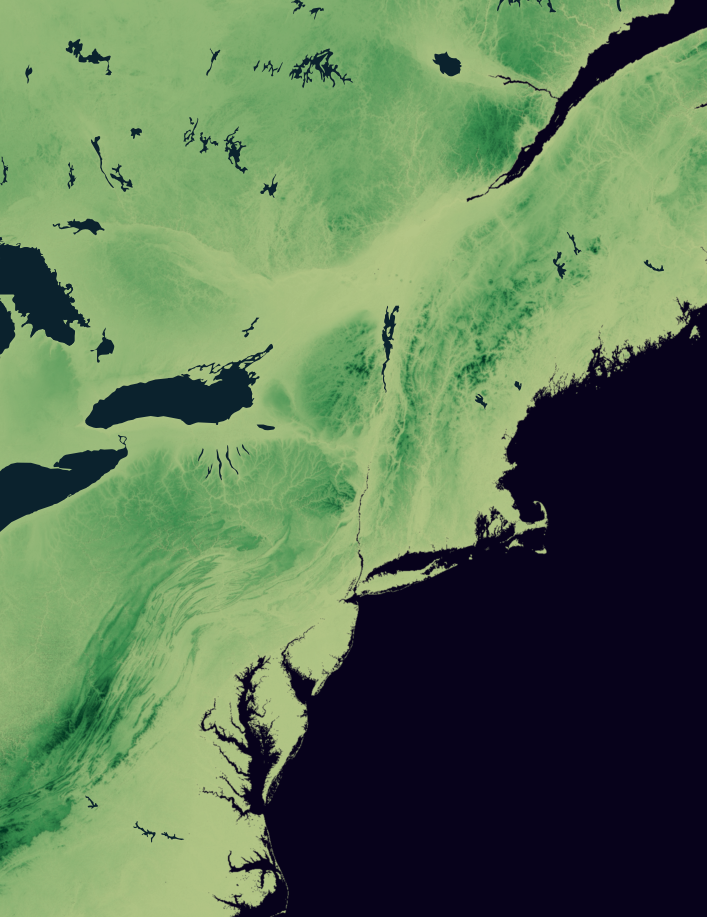
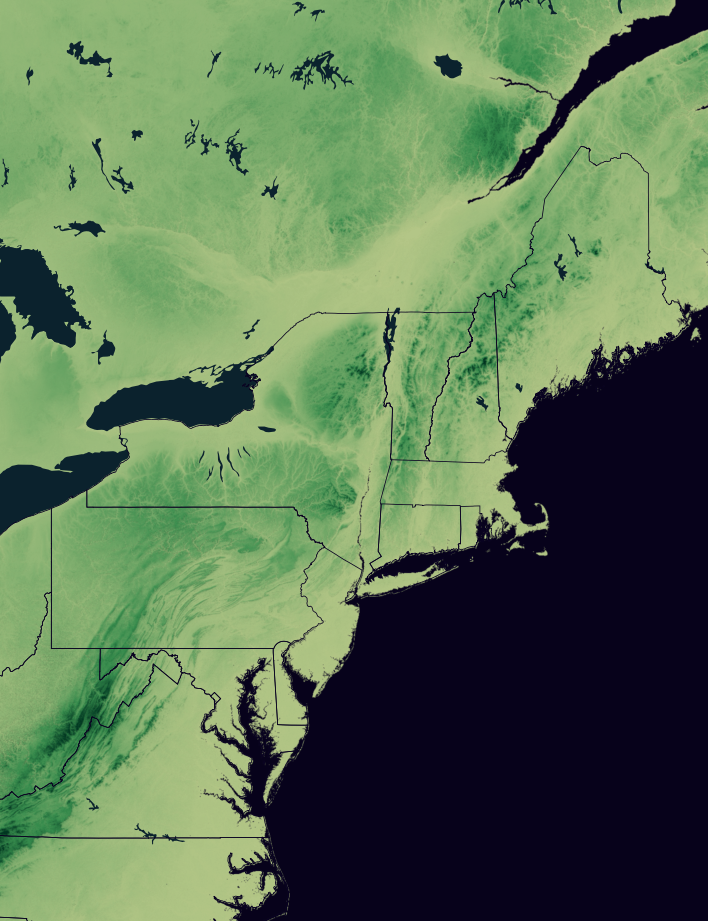
Remove top outline layer, add outline to basemap

diff --git a/transform.py b/transform.py
@@ -104,19 +104,9 @@ def add_basemap(radar, region="northeast"):
     combined = "gif/basemap/%s-bm.png" % radar.split('/')[-1].split('.')[0]
 
     background.paste(foreground, (0, 0), foreground)
-    background.save(combined, "PNG", optimize=True)
+    background.convert("P").save(combined, "PNG", optimize=True)
 
-    outline = "basemap/%s-outline.png" % region
-    bg_2 = Image.open(combined)
-    fg_2 = Image.open(outline)
-
-    final_image = "gif/basemap_and_overlay/%s.png" % (
-        radar.split('/')[-1].split('.')[0])
-
-    bg_2.paste(fg_2, (0, 0), fg_2)
-    bg_2.convert("P").save(final_image, "PNG", optimize=True)
-
-    return final_image
+    return combined
 
 
 def crop_image(image):
